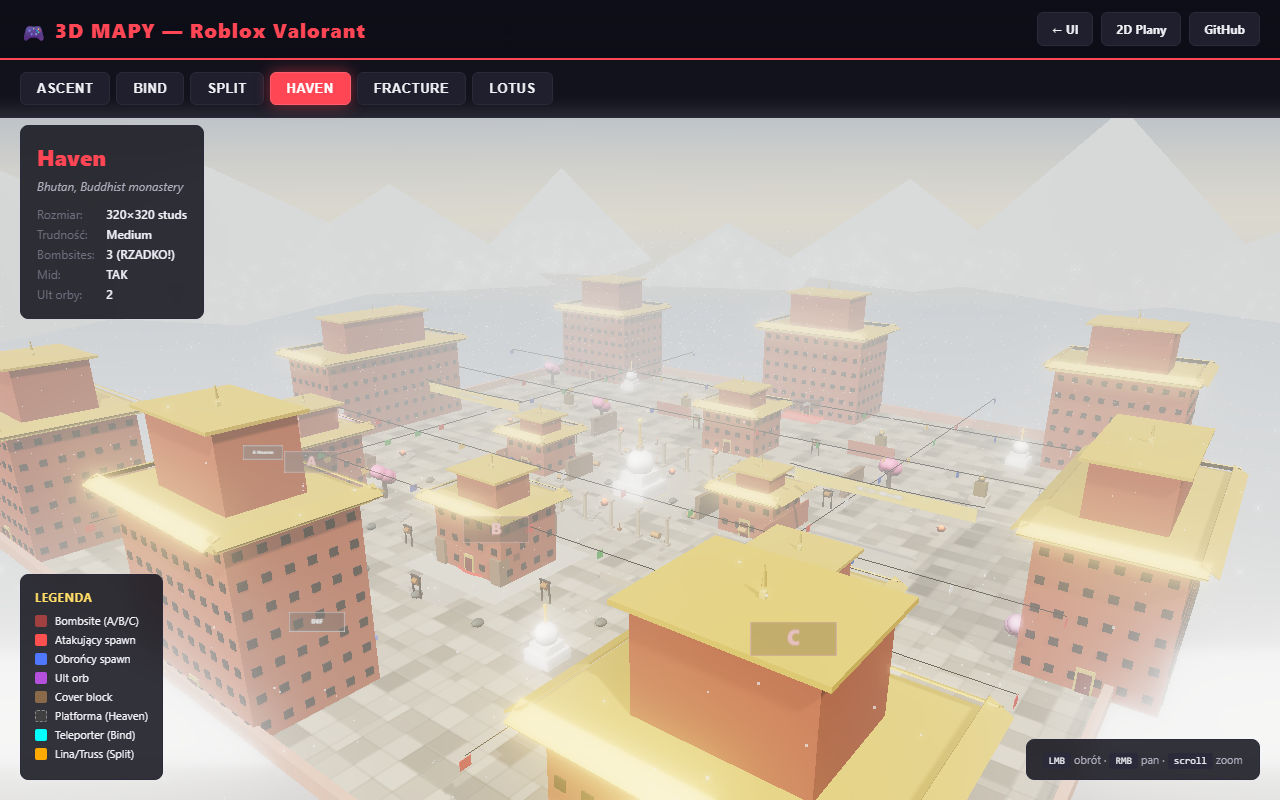
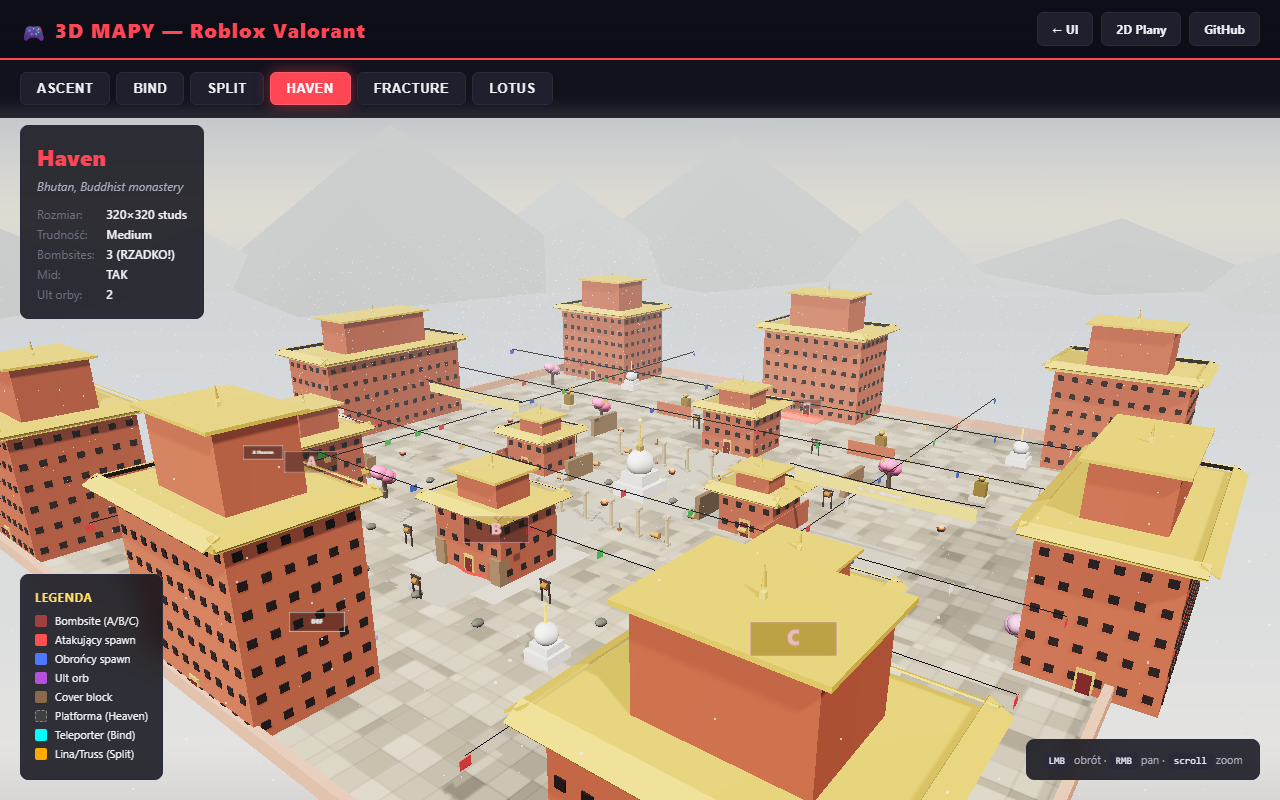
Fix fog/bloom washout — landmarks now visible
User feedback: "nie wydzie, tylko mgla jest wiecej" (don't see anything,
only more fog). Bloom + fog combined to wash everything white.

Tuning:
- UnrealBloomPass threshold 0.85 → 1.6 (only HDR-emissive pixels glow, not
  bright sky/walls). Strength 0.55 → 0.25. Radius 0.5 → 0.4.
- FogExp2 density 0.0018 → 0.0007 (much lighter — landmarks visible).
- Exposure 0.95 → 1.05 (slight increase to compensate for reduced bloom).

Result: Campanile bell tower visible behind Ascent buildings. Kingdom HQ
skyscraper visible behind Split skyline. Snow-capped Himalayas behind
Haven. Mesa silhouettes behind Fracture. Banyan tree + temple domes
visible on Lotus. Bloom now only kicks in on the radian collider's
HDR-emissive core, fire braziers, neon signs — exactly where intended.

Changed region(s): [[0.0, 0.3438, 1.0, 1.0], [0.7812, 0.9688, 0.8438, 1.0]]

diff --git a/presentation/maps3d.html b/presentation/maps3d.html
@@ -1091,7 +1091,7 @@ renderer.shadowMap.enabled = true;
 renderer.shadowMap.type = THREE.PCFSoftShadowMap;
 // Tone mapping for cinematic look
 renderer.toneMapping = THREE.ACESFilmicToneMapping;
-renderer.toneMappingExposure = 0.95;
+renderer.toneMappingExposure = 1.05;
 renderer.outputColorSpace = THREE.SRGBColorSpace;
 container.appendChild(renderer.domElement);
 
@@ -1136,9 +1136,9 @@ const composer = new EffectComposer(renderer);
 composer.addPass(new RenderPass(scene, camera));
 const bloomPass = new UnrealBloomPass(
   new THREE.Vector2(window.innerWidth, window.innerHeight - 110),
-  0.55,  // strength
-  0.5,   // radius
-  0.85   // threshold — only HDR-bright pixels glow
+  0.25,  // strength — much subtler now
+  0.4,   // radius
+  1.6    // threshold — only HDR emissive (neon, glowing) blooms, not bright sky
 );
 composer.addPass(bloomPass);
 composer.addPass(new OutputPass());
@@ -3596,7 +3596,7 @@ function buildMap(name) {
   const skyTex = new THREE.CanvasTexture(skyCanvas);
   skyTex.colorSpace = THREE.SRGBColorSpace;
   scene.background = skyTex;
-  scene.fog = new THREE.FogExp2(skyMidColor.getHex(), 0.0018);  // exponential fog (more atmospheric)
+  scene.fog = new THREE.FogExp2(skyMidColor.getHex(), 0.0007);  // lighter exponential fog — landmarks stay visible
   // Update sun color tint based on map theme
   sun.color.copy(skyTopColor).multiplyScalar(1.0).lerp(new THREE.Color(0xffeec8), 0.5);
   ambient.color.copy(skyTopColor).multiplyScalar(0.5);
